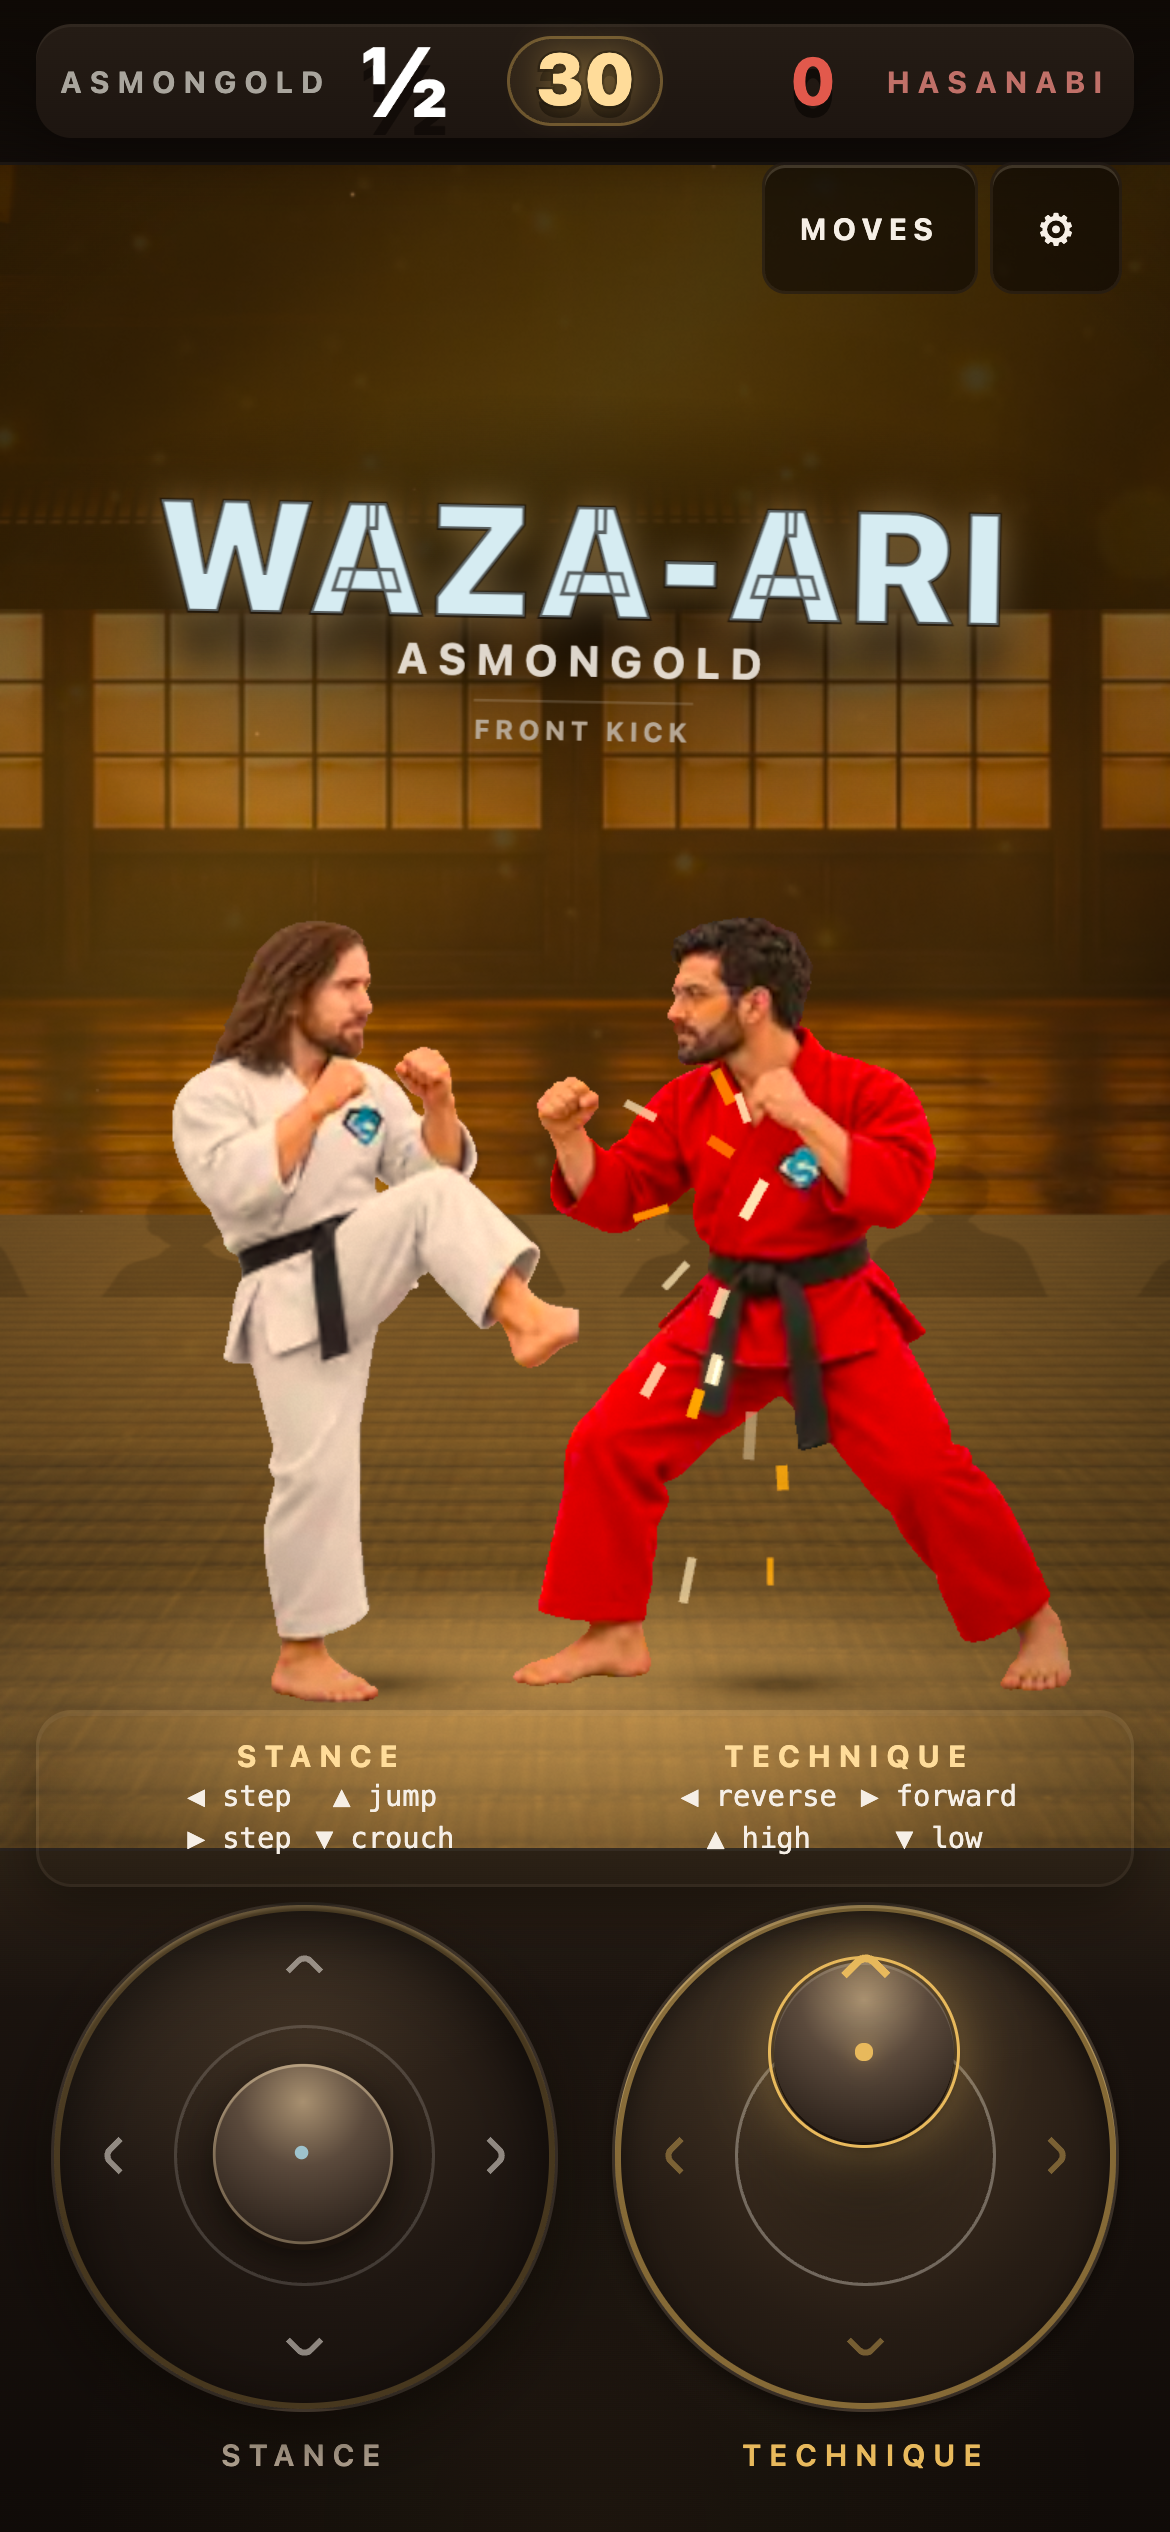
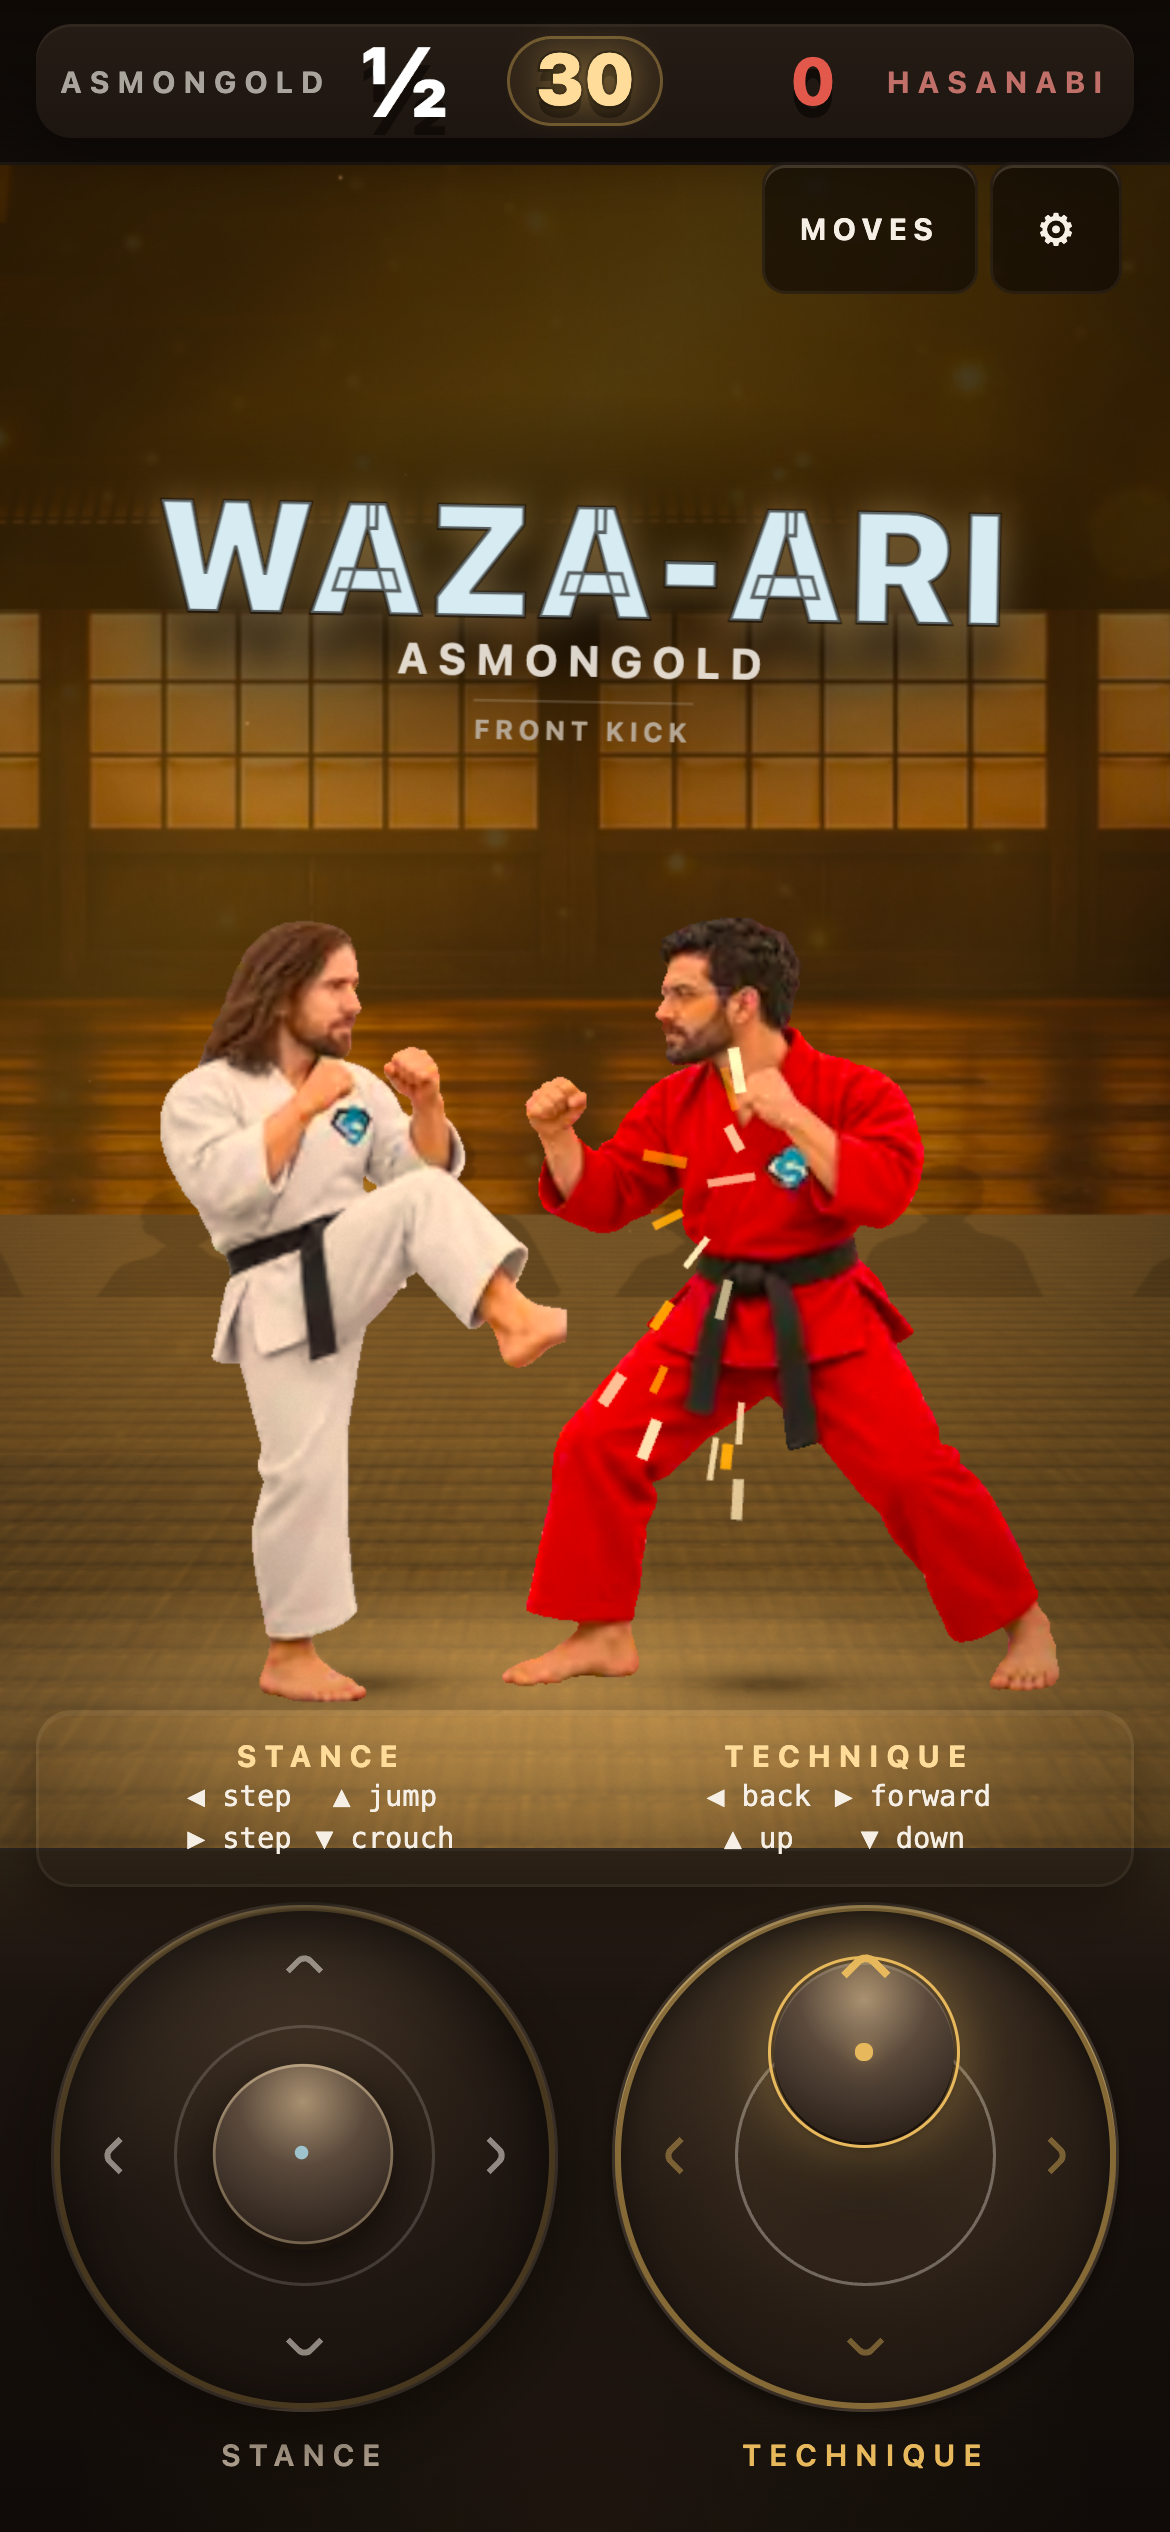
fix(coach): the legend and the Moves sheet were two vocabularies for one stick
claude-opus-5.5: "the on-screen stick legend is ambiguous and conflicts with the
Moves list."

They did. The first-run coach taught the technique stick as reverse / forward /
high / low. The Moves sheet groups the same four directions under RIGHT STICK
FORWARD / BACK / UP / DOWN. A player who learned the controls from the coach
and then opened the reference to look a move up was matching between two sets of
names for one control.

The coach follows the sheet now, because the sheet is what a player opens in
order to look something up. The reference is the authority, not the tooltip.

**Five models have now reported a floating limb in the front kick, and the
round-22 refutation was scoped to the wrong move.** Enumerated the whole input
grammar to reach the one move no burst had hit — Front Kick is `neutral+up` —
and it is there: a detached foot, complete with toes, floating at the left of
the figure through the extension frames. I checked the *back* kick in round 22,
found it clean, and let a correct refutation of one move dismiss a finding about
another. The models kept saying fist, hand, foot and limb because the fragment
is small and skin-coloured and nobody could name it, because it is not a limb,
it is a limb attached to nothing.

That one is open rather than fixed. The artifact lives in the shipped atlas, so
the fix belongs in build-fighter-atlas.py against a regenerated contact sheet,
and those source sheets are gitignored. A blind edit to a keyed alpha atlas
[…]

diff --git a/apps/game/src/coach.ts b/apps/game/src/coach.ts
@@ -43,7 +43,14 @@ const LESSONS: ReadonlyArray<{
   pairs: readonly string[];
 }> = [
   { zone: 'zone-left', title: 'Stance', pairs: ['◀ step', '▲ jump', '▶ step', '▼ crouch'] },
-  { zone: 'zone-right', title: 'Technique', pairs: ['◀ reverse', '▶ forward', '▲ high', '▼ low'] },
+  // The Moves sheet groups every technique under RIGHT STICK FORWARD / BACK /
+  // UP / DOWN. The legend used to say reverse/forward/high/low for the same
+  // four directions, so a player who learned the controls from the coach and
+  // then opened the reference to look up a move was matching two vocabularies.
+  // claude-opus-5.5 called it "the on-screen stick legend is ambiguous and
+  // conflicts with the Moves list", and they are right — the sheet is what
+  // people actually go and look things up in, so the coach follows it.
+  { zone: 'zone-right', title: 'Technique', pairs: ['◀ back', '▶ forward', '▲ up', '▼ down'] },
 ];
 
 export function createControlCoach(): ControlCoach {

diff --git a/REVIEW-LOOP.md b/REVIEW-LOOP.md
@@ -881,3 +881,43 @@ remaining.** The local snapshot was inventing IDs — `glm-4.7v` and
   `top-hud-crowded-and-uneven`, `fight-scene-composition`,
   `landscape-camera-zoom` — framing, in its eighteenth iteration. Standing:
   warm and low.
+
+### Round 28 — claude-opus-5.5, gpt-5.4-pro, seed-2.0-lite, qwen3.5-122b-a10b
+
+- **`floating-fist-sprite-artifact` / `floating-hand-animation-bug` /
+  `floating limb fragment` / `severed foot` — CONFIRMED, five models, and the
+  round-22 refutation was scoped to the wrong move.** Enumerated the full input
+  grammar to find the move none of the bursts had reached — Front Kick is
+  `neutral+up` — and burst-captured it. A **detached foot, complete with toes,
+  floats in mid-air at the left of the figure** through the extension frames.
+
+  Round 22 refuted this on the *back* kick, correctly, and I let a correct
+  refutation of one move dismiss a finding about a different one. The models
+  kept saying fist, hand, foot and limb because the fragment is small and
+  skin-coloured; nobody could name it because it is not a limb, it is a limb
+  that is not attached to anything.
+
+  **Open.** The artifact is in the shipped atlas (`apps/game/public/fighters/
+  shiro-1.webp`, `front_kick` frames 61–66), so the fix is in
+  `build-fighter-atlas.py` against a regenerated contact sheet, and the source
+  sheets are gitignored. Not attempted blind: a half-verified edit to a keyed
+  alpha atlas is how you get a worse bug than the one you were fixing.
+- `control-legend-contradicts-moves` (claude-opus-5.5) — **accepted.** The coach
+  legend taught the technique stick as ◀ reverse / ▶ forward / ▲ high / ▼ down
+  while the Moves sheet groups the same four directions under RIGHT STICK
+  FORWARD / BACK / UP / DOWN. Two vocabularies for one control. The coach now
+  follows the sheet, because the sheet is what a player opens to look a move up.
+- `hide-dead-controls-on-overlays` (gpt-5.4-pro) — the pre-fight card is
+  excluded from the modal dimming on purpose, and the comment says why: it is a
+  countdown that ends in the fight, not a dialog, and dimming its pad meant the
+  controls were at 18% seconds before the player had to use them.
+- `loading-bar-*` (gpt-5.4-pro, seed-2.0-lite, qwen3.5-122b) — the MEASURING
+  state, in its twelfth appearance across nine providers.
+- `unskippable-rematch-countdown` (seed-2.0-lite) — the whole button is the skip
+  affordance, which is what "FIGHT IN 2" now says on the first line of it.
+- `half-point-score-hard-to-parse` / `fraction-score-ambiguity` (gpt-5.4-pro,
+  seed-2.0-lite) — third and fourth report of the same thing across two rounds.
+  Real, and the fix is glyph choice, not layout: see next round.
+- `fighters-too-small-on-phone`, `fighter-vertical-cramping`,
+  `portrait-combat-framing-too-wide`, `control-legend-too-small` — framing, in
+  its nineteenth iteration. Standing: warm and low.
